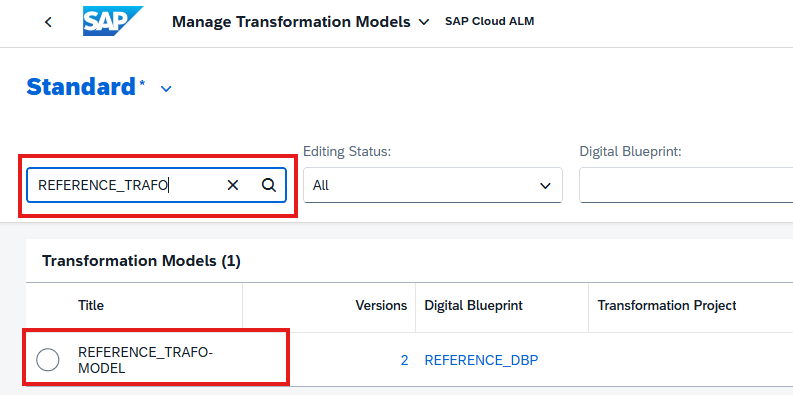
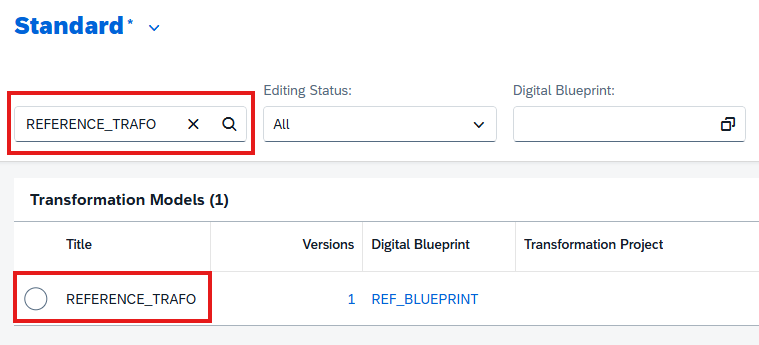
final fixes

diff --git a/exercises/ex6/README.md b/exercises/ex6/README.md
@@ -77,13 +77,13 @@ Follow these steps to complete the exercise:<br>
     It represents a **snapshot** of your **transformation model** and serves as the **technical basis** for executing the **data transformation**.<br><br>
     It contains the same **objects**, **relations**, **filters**, and **rules** as defined in the model, ensuring that each transformation run is performed **consistently** and can be **traced back** to its exact configuration.<br><br>
     ![](/exercises/ex6/images/Screenshot-14.png)<br><br>
-    This concludes the exercise and you can continue with the next ecercise.<br><br>
+    This concludes the exercise and you can continue with the next ecercise. Scroll down to the end of this page and click on the link leading to exercicse 7. <br><br>
 
 20. This is an alternative route to complete the exercise in case the model    creation took too long. From the menu at the top of the screen, click on the arrow to open the dropdown menu and select "Manage Transformation Models":<br><br>
    ![](/exercises/ex6/images/Screenshot-20.png)<br><br>
-   Then, in the search field, enter **REFERENCE_TRAFO**, click on the magnifying lense, and select **REFERENCE_TRAFO-Model** from the list below: <br><br>
+   Then, in the search field, enter **REFERENCE_TRAFO**, click on the magnifying lense, and select **REFERENCE_TRAFO** from the list below: <br><br>
    ![](/exercises/ex6/images/Screenshot-21.png)<br><br>
-   The Transformation Model application opens. Open the tab **Transformation Model Versions** and select the verion titled **REFERENCE_TRAFO-MODEL-VERSION**.<br><br>
+   The Transformation Model application opens. Open the tab **Transformation Model Versions** and select the verion titled **REFERENCE_TRAFO_VERSION**.<br><br>
    ![](/exercises/ex6/images/Screenshot-22.png)<br><br>
    You have now caught up with the process flow in this exercise and can contiune to the next exercise, creating the cycle from the model version.<br><br>
 

diff --git a/exercises/ex4/README.md b/exercises/ex4/README.md
@@ -104,4 +104,4 @@ Follow these steps to complete the exercise:
 
 <p align="justify">You have now successfully created the Chart of Accounts Value Mappings. In the next exercise you will create an immutable version of this definition to be used in the transformation model lateron.</p>
 
-Continue to - [Exercise 5 - Chart of Accounts Mapping: Manage Value Mappings](../ex5/README.md)
+Continue to - [Exercise 5 - Chart of Accounts Mapping: Value Mapping Versions](../ex5/README.md)

diff --git a/exercises/ex0/README.md b/exercises/ex0/README.md
@@ -54,4 +54,4 @@
 
 <p align="justify">You have now reviewed the overall transformation scenario, explored the CONSAREA system landscape, and understood the key preparation steps that enable the upcoming exercises. The environment is fully set up and ready for the next phase of your journey.</p>
 
-Continue to - [Exercise 1 - Build the Foundation: Upload UDP & MRC File](../ex1/README.md)
+Continue to - [Exercise 1 - Build the Foundation: Upload UDP File](../ex1/README.md)
